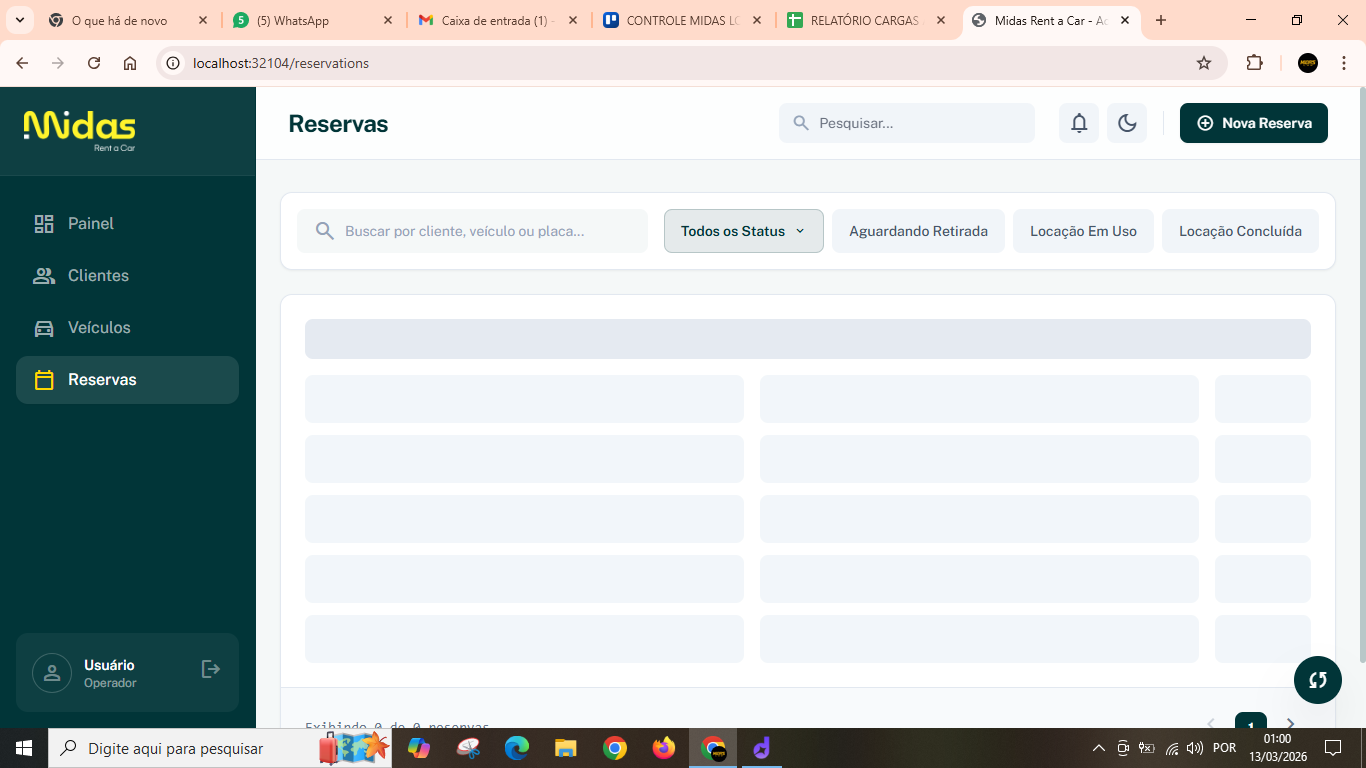
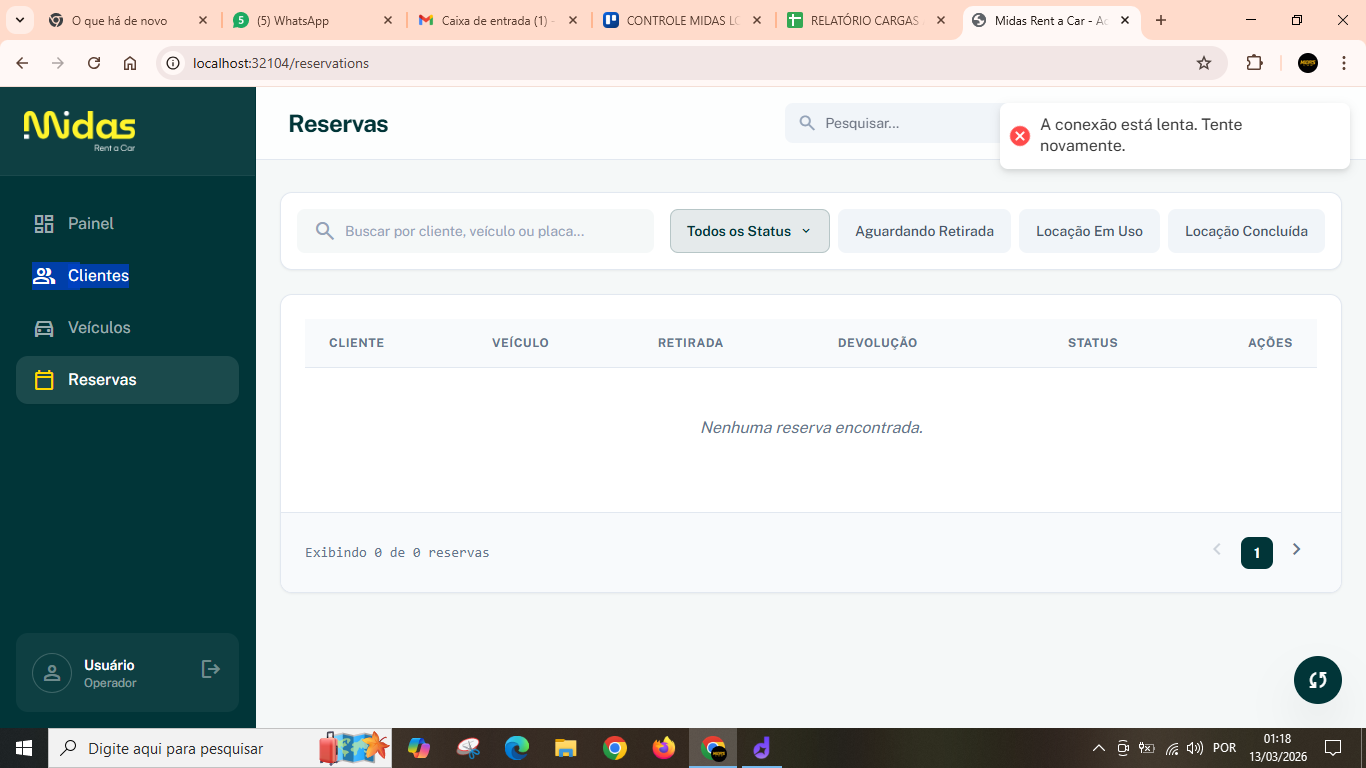
[dyad] Implementando busca resiliente com retentativas e tratamento de erros por tabela - wrote 2 file(s)

diff --git a/App.tsx b/App.tsx
@@ -8,6 +8,7 @@ import { Toaster } from 'react-hot-toast';
 import toast from 'react-hot-toast';
 import { useApp } from './hooks/useApp';
 import ErrorBoundary from './components/ErrorBoundary';
+import { retryAsync } from './utils/retry';
 
 // Lazy Views
 const Login = React.lazy(() => import('./views/Login'));
@@ -36,60 +37,49 @@ const MainContent: React.FC = () => {
   const [reservations, setReservations] = useState<Reservation[]>([]);
   
   const isFetching = useRef(false);
-  const fetchCount = useRef(0);
 
   const fetchData = useCallback(async (options: { isManual?: boolean, silent?: boolean, forceRepair?: boolean } = {}) => {
     const { isManual = false, silent = false, forceRepair = false } = options;
     
-    // Se não houver usuário ou já estiver buscando, ignora
     if (!session?.user?.id || isFetching.current) return;
     
     isFetching.current = true;
-    fetchCount.current += 1;
-    
     if (!silent) setIsLoading(true);
     const toastId = isManual ? toast.loading(forceRepair ? 'Reparando sistema...' : 'Sincronizando...') : null;
 
-    // Timeout de segurança para o carregamento (12 segundos)
-    const fetchTimeout = setTimeout(() => {
-      if (isFetching.current) {
-        console.warn('[App] Fetch timeout atingido. Resetando estado.');
-        setIsLoading(false);
-        isFetching.current = false;
-        if (isManual) toast.error('A conexão está lenta. Tente novamente.', { id: toastId || undefined });
-      }
-    }, 12000);
-
     try {
-      // 1. Validação de Integridade (Verifica se o Supabase responde)
-      const { error: authError } = await supabase.auth.getUser();
-      if (authError) {
-        console.error('[App] Sessão inválida detectada:', authError);
+      // Se for reparo forçado, limpa caches antes
+      if (forceRepair) {
         await repairSession();
       }
 
-      // 2. Busca de dados em paralelo
-      const [clientsRes, vehiclesRes, reservationsRes] = await Promise.all([
-        supabase.from('clients').select('*').order('name'),
-        supabase.from('vehicles').select('*').order('model'),
-        supabase.from('reservations').select('*').order('created_at', { ascending: false })
+      // Busca de dados com Retry e Timeout individual
+      const fetchWithRetry = async (table: string) => {
+        return await retryAsync(async () => {
+          const { data, error } = await supabase.from(table).select('*').limit(1000);
+          if (error) throw error;
+          return data;
+        }, 2, 500);
+      };
+
+      // Executa buscas em paralelo mas trata erros individualmente para não travar tudo
+      const [clientsData, vehiclesData, reservationsData] = await Promise.allSettled([
+        fetchWithRetry('clients'),
+        fetchWithRetry('vehicles'),
+        fetchWithRetry('reservations')
       ]);
 
-      if (clientsRes.error) throw clientsRes.error;
-      if (vehiclesRes.error) throw vehiclesRes.error;
-      if (reservationsRes.error) throw reservationsRes.error;
+      const currentClients = clientsData.status === 'fulfilled' ? (clientsData.value || []) : clients;
+      const currentVehicles = vehiclesData.status === 'fulfilled' ? (vehiclesData.value || []) : vehicles;
+      const currentReservations = reservationsData.status === 'fulfilled' ? (reservationsData.value || []) : [];
 
-      const currentClients = clientsRes.data || [];
-      const currentVehicles = vehiclesRes.data || [];
-      const currentReservations = reservationsRes.data || [];
+      setClients(currentClients as Client[]);
+      setVehicles(currentVehicles as Vehicle[]);
 
-      setClients(currentClients);
-      setVehicles(currentVehicles);
-
-      // 3. Transformação de dados
-      const transformed: Reservation[] = currentReservations.map((r: any) => {
-        const client = currentClients.find(c => c.id === r.client_id);
-        const vehicle = currentVehicles.find(v => v.id === r.vehicle_id);
+      // Transformação de dados
+      const transformed: Reservation[] = (currentReservations as any[]).map((r: any) => {
+        const client = (currentClients as Client[]).find(c => c.id === r.client_id);
+        const vehicle = (currentVehicles as Vehicle[]).find(v => v.id === r.vehicle_id);
         return {
           ...r,
           clientName: client?.name || 'N/A',
@@ -101,25 +91,23 @@ const MainContent: React.FC = () => {
       
       setReservations(transformed);
       
-      if (isManual) toast.success('Dados sincronizados!', { id: toastId });
+      if (isManual) {
+        if (clientsData.status === 'rejected' || vehiclesData.status === 'rejected' || reservationsData.status === 'rejected') {
+          toast.error('Alguns dados não puderam ser carregados. Tente novamente.', { id: toastId || undefined });
+        } else {
+          toast.success('Dados sincronizados!', { id: toastId || undefined });
+        }
+      }
 
     } catch (error: any) {
-      console.error('[App] Erro crítico no carregamento:', error);
-      
-      // Se falhar 3 vezes seguidas, sugere logout
-      if (fetchCount.current >= 3 && !silent) {
-        toast.error('Múltiplas falhas de conexão. Tente sair e entrar novamente.');
-      } else {
-        toast.error('Erro ao carregar dados. Verifique sua conexão.', { id: toastId || undefined });
-      }
+      console.error('[App] Erro no carregamento:', error);
+      if (isManual) toast.error('Erro ao carregar dados. Verifique sua conexão.', { id: toastId || undefined });
     } finally {
-      clearTimeout(fetchTimeout);
       setIsLoading(false);
       isFetching.current = false;
     }
-  }, [session?.user?.id, repairSession]);
+  }, [session?.user?.id, repairSession, clients, vehicles]);
 
-  // Efeito de carregamento inicial
   useEffect(() => {
     fetchData();
   }, [fetchData]);
